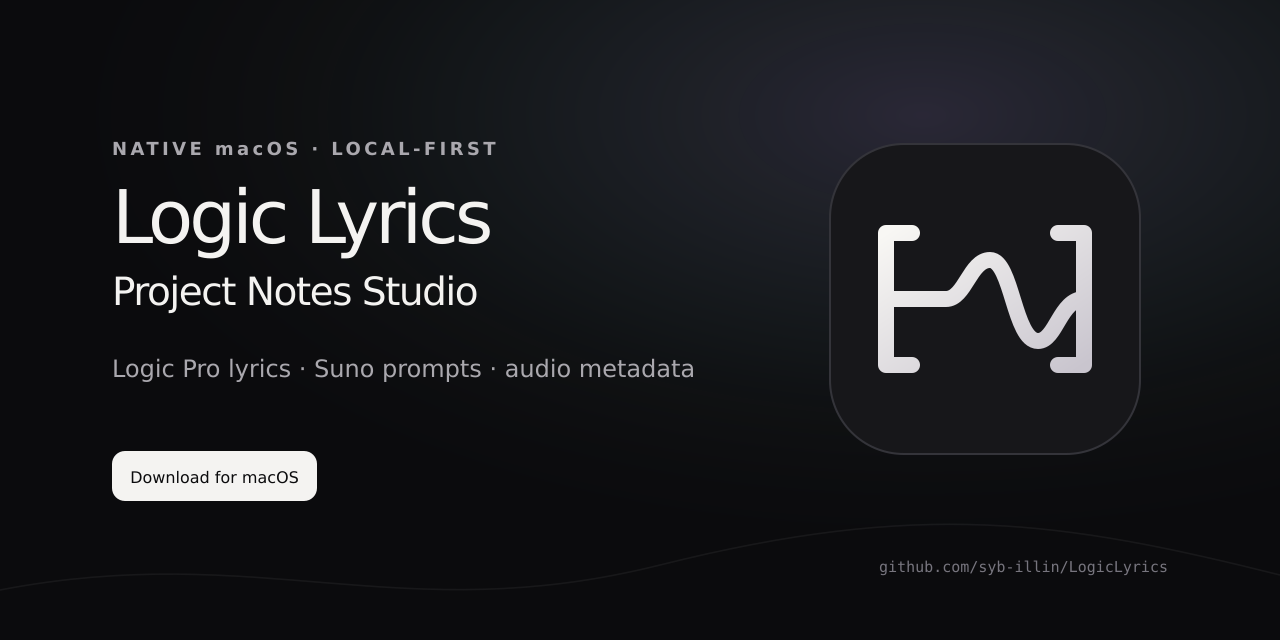
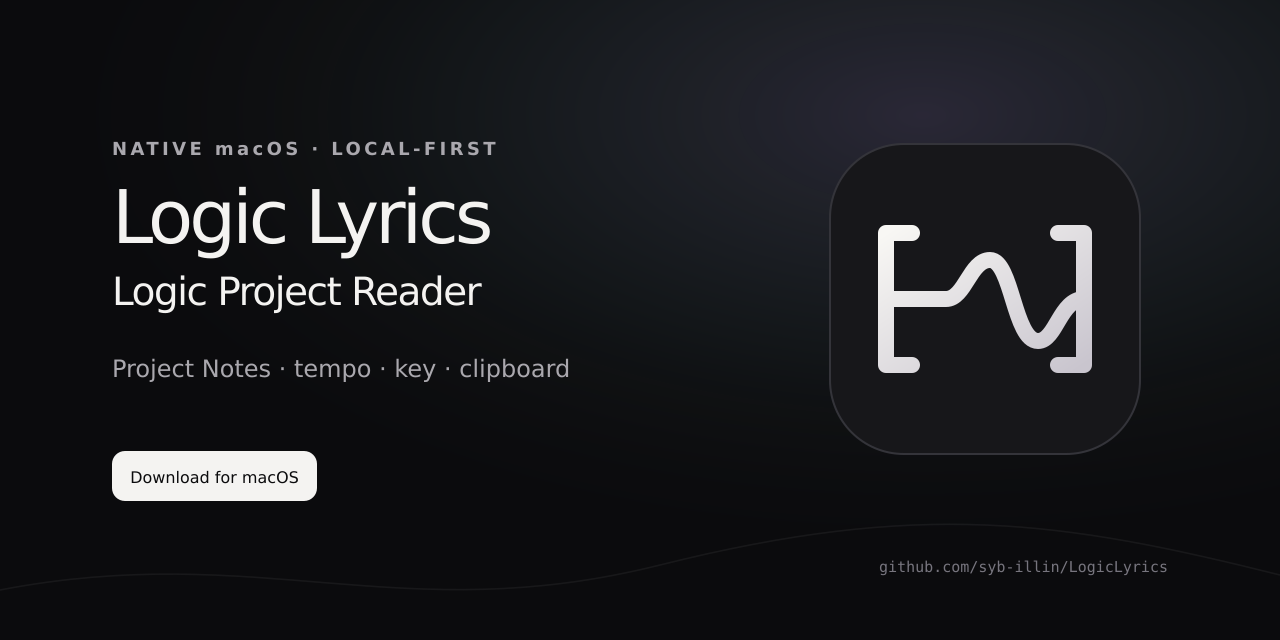
Update GitHub statistics

Changed region(s): [[0.0938, 0.4062, 0.375, 0.5], [0.0938, 0.5625, 0.5625, 0.5938]]

diff --git a/index.html b/index.html
@@ -4,14 +4,14 @@
   <meta charset="utf-8">
   <meta name="viewport" content="width=device-width, initial-scale=1">
   <meta name="theme-color" content="#0b0b0d">
-  <meta name="description" content="Logic Lyrics is a private, native macOS studio for recovering and structuring Logic Pro project notes, preparing Suno prompts, and tagging audio exports.">
+  <meta name="description" content="Logic Lyrics is a focused native macOS reader for lyrics, tempo and key stored in Logic Pro Project Notes.">
   <meta property="og:type" content="website">
-  <meta property="og:title" content="Logic Lyrics — Project Notes Studio for macOS">
-  <meta property="og:description" content="Recover lyrics from Logic Pro projects, prepare voice-faithful Suno prompts, and finish MP3/WAV metadata locally.">
+  <meta property="og:title" content="Logic Lyrics — Logic Pro Project Notes reader for macOS">
+  <meta property="og:description" content="Read and copy lyrics, tempo, key and sections directly from a local Logic Pro project.">
   <meta property="og:url" content="https://syb-illin.github.io/LogicLyrics/">
   <meta property="og:image" content="https://syb-illin.github.io/LogicLyrics/assets/social-preview.png">
   <meta name="twitter:card" content="summary_large_image">
-  <title>Logic Lyrics — Project Notes Studio for macOS</title>
+  <title>Logic Lyrics — Logic Pro Project Notes reader for macOS</title>
   <link rel="icon" href="assets/app-icon.png">
   <link rel="stylesheet" href="product.css">
   <script type="application/ld+json">
@@ -21,10 +21,10 @@
     "name": "Logic Lyrics",
     "applicationCategory": "MultimediaApplication",
     "operatingSystem": "macOS 14 or later",
-    "softwareVersion": "2.4.0",
+    "softwareVersion": "2.5.0",
     "downloadUrl": "https://github.com/syb-illin/LogicLyrics/releases/latest/download/LogicLyrics.app.zip",
     "codeRepository": "https://github.com/syb-illin/LogicLyrics",
-    "description": "A native macOS studio for Logic Pro project notes, lyrics, Suno prompts, and audio metadata."
+    "description": "A focused native macOS reader for Logic Pro Project Notes, lyrics, tempo and key."
   }
   </script>
 </head>
@@ -34,7 +34,7 @@
   <header class="site-header">
     <a class="brand" href="#top" aria-label="Logic Lyrics home">
       <img src="assets/app-icon.png" alt="" width="42" height="42">
-      <span><strong>Logic Lyrics</strong><small>Project Notes Studio</small></span>
+      <span><strong>Logic Lyrics</strong><small>Logic Project Reader</small></span>
     </a>
     <nav aria-label="Primary navigation">
       <a href="#workflow">Workflow</a>
@@ -50,12 +50,12 @@
       <div class="hero-copy">
         <p class="eyebrow">Native macOS app · local-first</p>
         <h1 id="hero-title">From Logic project notes to finished lyrics.</h1>
-        <p class="lede">Recover and structure lyrics from <strong>Logic Pro</strong>, prepare voice-faithful prompts for <strong>Suno</strong>, and finish MP3/WAV metadata without sending your projects anywhere.</p>
+        <p class="lede">Read lyrics, tempo, key and song sections directly from <strong>Logic Pro Project Notes</strong>, then copy exactly what you need.</p>
         <div class="hero-actions">
           <a class="button" href="https://github.com/syb-illin/LogicLyrics/releases/latest/download/LogicLyrics.app.zip">Download for macOS</a>
           <a class="text-link" href="https://github.com/syb-illin/LogicLyrics/releases/latest">View latest release <span aria-hidden="true">↗</span></a>
         </div>
-        <p class="requirements">Version 2.4.0 · macOS 14+ · Apple Command Line Tools supported</p>
+        <p class="requirements">Version 2.5.0 · macOS 14+ · Apple Command Line Tools supported</p>
       </div>
 
       <div class="studio-preview" aria-label="Logic Lyrics workflow preview">
@@ -98,19 +98,19 @@
       <p class="eyebrow">One focused workflow</p>
       <h2 id="workflow-title">Less file archaeology. More music.</h2>
       <div class="feature-grid">
-        <article><span class="index">01</span><h3>Recover</h3><p>Open a <code>.logicx</code> project and extract Project Notes, BPM, key and section markers.</p></article>
-        <article><span class="index">02</span><h3>Shape</h3><p>Edit lyrics, repair structure, copy individual sections and keep a local song history.</p></article>
-        <article><span class="index">03</span><h3>Prompt</h3><p>Generate separate Styles, Styles to Exclude and Lyrics blocks for ChatGPT, Gemini and Suno.</p></article>
-        <article><span class="index">04</span><h3>Finish</h3><p>Inspect and write MP3/WAV metadata, preview artwork and convert WAV exports with LAME.</p></article>
+        <article><span class="index">01</span><h3>Read</h3><p>Open a <code>.logicx</code> project and extract the active Project Notes, BPM and key.</p></article>
+        <article><span class="index">02</span><h3>Structure</h3><p>Detect markers such as Verse, Chorus and Outro without rewriting your text.</p></article>
+        <article><span class="index">03</span><h3>Copy</h3><p>Copy the complete lyrics or an individual section to the macOS clipboard.</p></article>
+        <article><span class="index">04</span><h3>Return</h3><p>Find recent projects locally, even after a project is moved or renamed.</p></article>
       </div>
     </section>
 
     <section class="voice-section" aria-labelledby="voice-title">
       <div>
-        <p class="eyebrow">Voice identity first</p>
-        <h2 id="voice-title">Prompts that protect the singer.</h2>
+        <p class="eyebrow">Read-only by design</p>
+        <h2 id="voice-title">Your Logic project remains untouched.</h2>
       </div>
-      <p>Logic Lyrics makes the vocal constraints explicit: preserve natural grain, chest voice and formants; avoid falsetto, screaming, singer replacement, unrealistic high notes and vocal acrobatics. Backing vocals remain optional, including female backing vocals.</p>
+      <p>The parser reads only the active project alternative. There is no project writer, audio processor, cloud upload or background telemetry.</p>
     </section>
 
     <section id="privacy" class="section privacy" aria-labelledby="privacy-title">
@@ -119,9 +119,9 @@
         <h2 id="privacy-title">Your songs stay on your Mac.</h2>
       </div>
       <div class="privacy-list">
-        <p><strong>No app telemetry.</strong> Logic Lyrics never sends lyrics, prompts, audio, project names or paths.</p>
-        <p><strong>No API key required.</strong> Copy the generated prompt into ChatGPT or Gemini yourself.</p>
-        <p><strong>Originals preserved.</strong> Metadata and experimental Logic Notes writing always target a copy.</p>
+        <p><strong>No app telemetry.</strong> Logic Lyrics never sends lyrics, project names or paths.</p>
+        <p><strong>No cloud dependency.</strong> Project reading and section detection happen entirely on this Mac.</p>
+        <p><strong>Original preserved.</strong> Logic Lyrics contains no code path that writes into a Logic project.</p>
       </div>
     </section>
 
